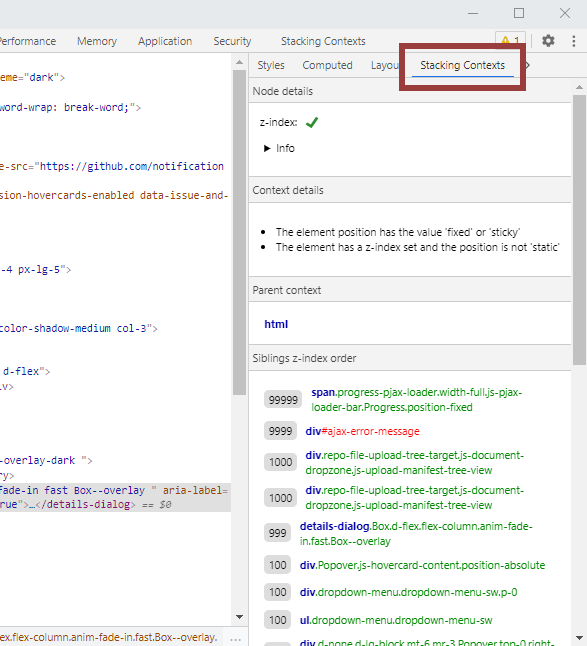
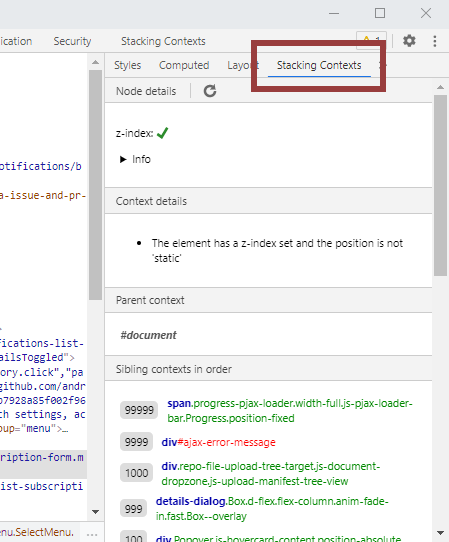
Update for version 1.1.2

diff --git a/README.md b/README.md
@@ -5,12 +5,12 @@ This extension will add a **new panel** to the devtools and a **new sidebar** on
 
 ### Known bugs and things to keep in mind
 * This extension work by analysing the page at a specific point in time (when you open the panel or the sidebar). It won't automatically react to changes in the page. However, you can use the reload button on the top of the stacking context panel to re-analyse the page at any time.
-* **Fixed in v.1.1.0:** Currently, when you install this extension you won't be able to inspect contexts within pages that were already open before the installation. You have to reload them to see their stacking contexts.
+* This extension can't currently analyse third-party iframes within the page (work in progress).
 
 If you find any other issue or have some feature request, feel free to use the [Issues section](https://github.com/andreadev-it/stacking-contexts-inspector/issues) here on github to share them.
 
 ## The Stacking Contexts panel
-This panel will show you a tree-like representation of all the stacking contexts available on the page.
+This panel will show you a tree-like representation of all the stacking contexts available on the page. It will also show some "containers" that represent the document that the stacking contexts reside within (useful to instantly see which stacking contexts were found within iframes). These containers will be shown with a bold, italic font and a grey color (the `#document` root is an exemple of a container).
 
 ![Screenshot of the Stacking Contexts panel in devtools](docs/panel-screenshot.png)
 
@@ -35,6 +35,8 @@ In the second section, you can find a list of all the stacking contexts that are
 When you install this extension, a new sidebar will be added to the right of the elements panel, where you can also find the "Styles", "Computed", "Layout" and other sidebars. It might not be immediatly visible, in that case you can make the sidebar larger to show all options, or click on the "»" button in the top-right to show all the hidden sidebars names.
 
 ![Screenshot of the Stacking Contexts sidebar in the elements panel](docs/sidebar-screenshot.png)
+
+In the first option bar, you can see a button with a "refresh" icon (on the right of "Node details"). Press that button whenever there are some changes in the page that could impact the stacking contexts.
 
 The sidebar is divided into multiple sections:
 
